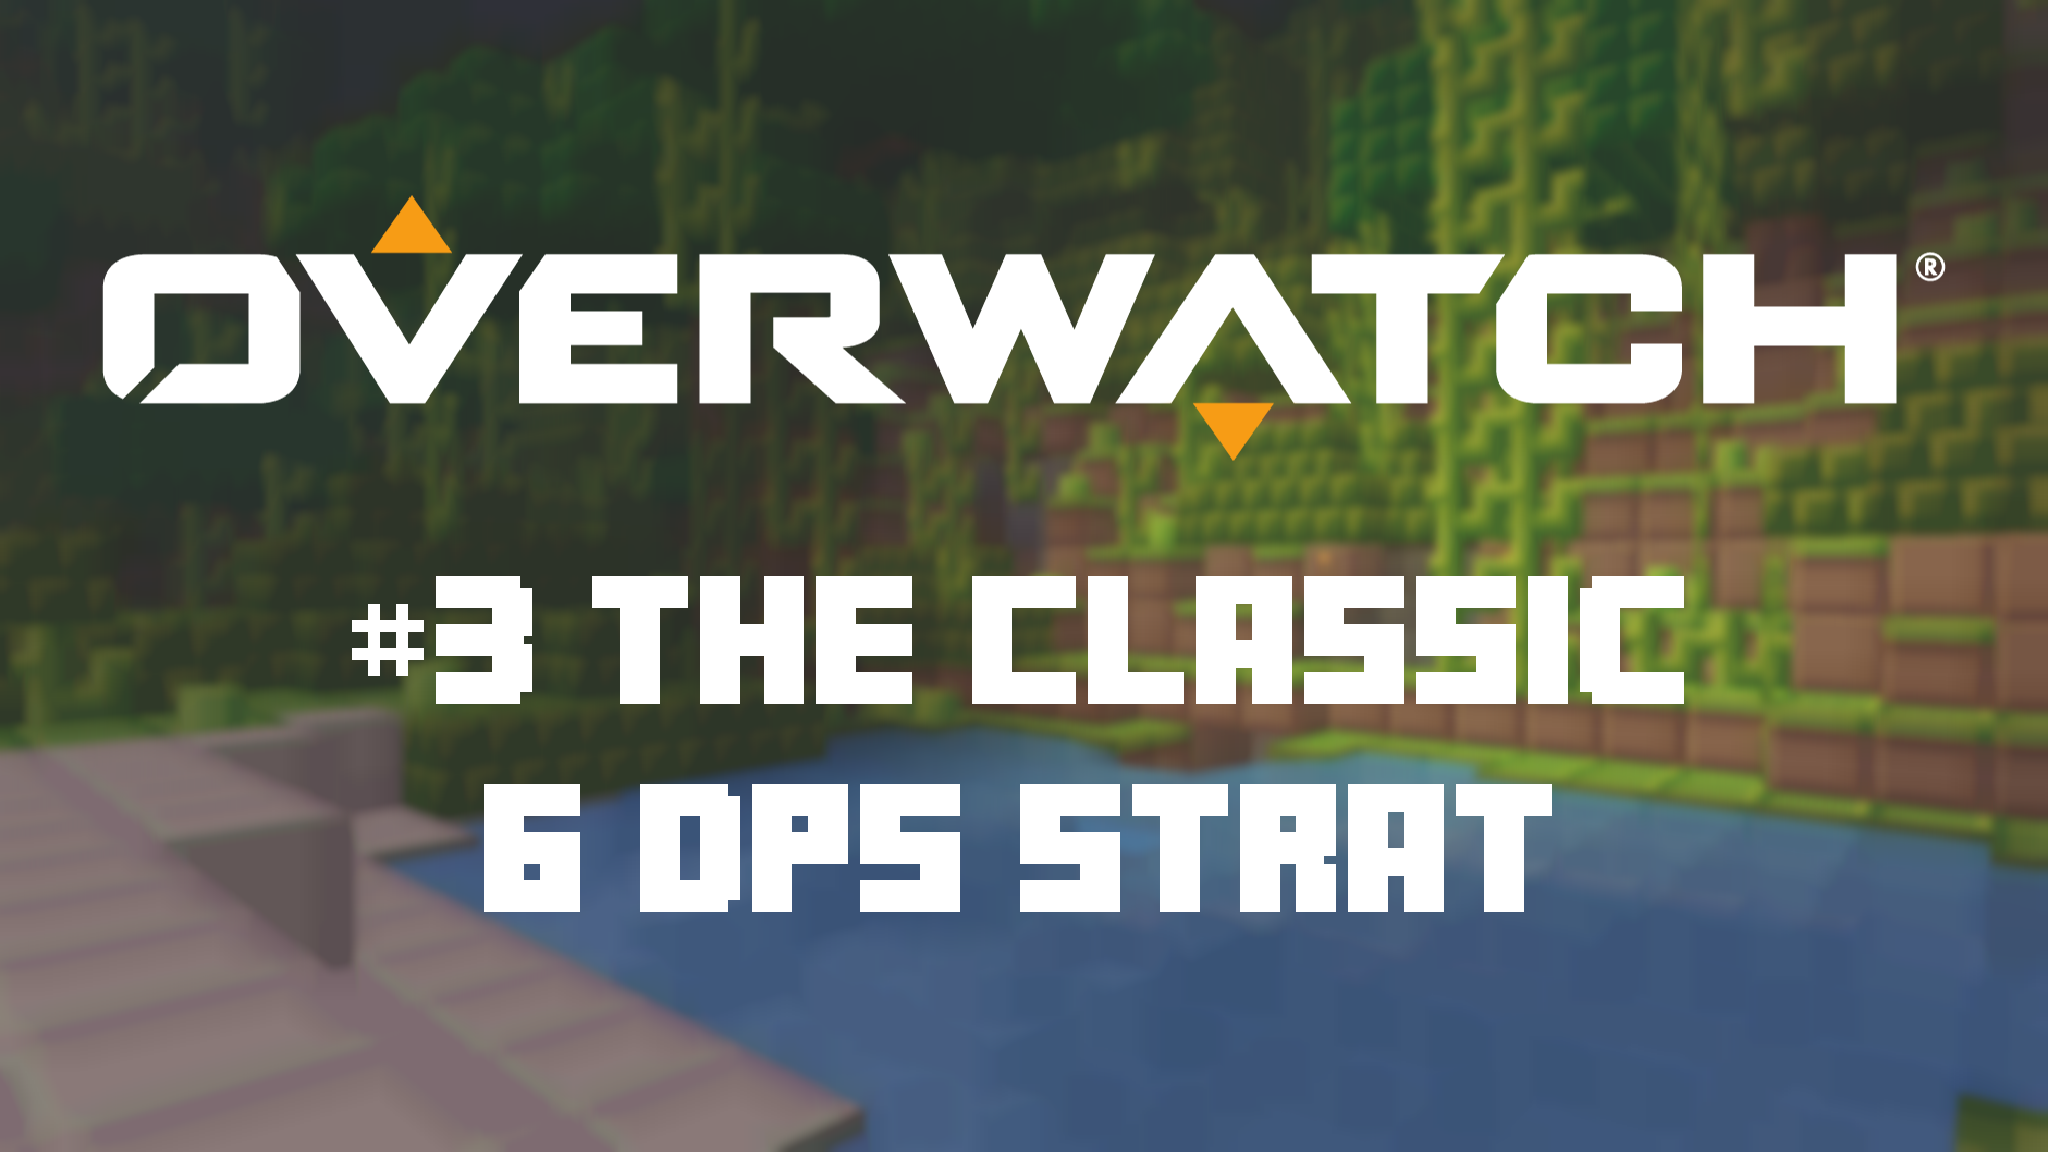
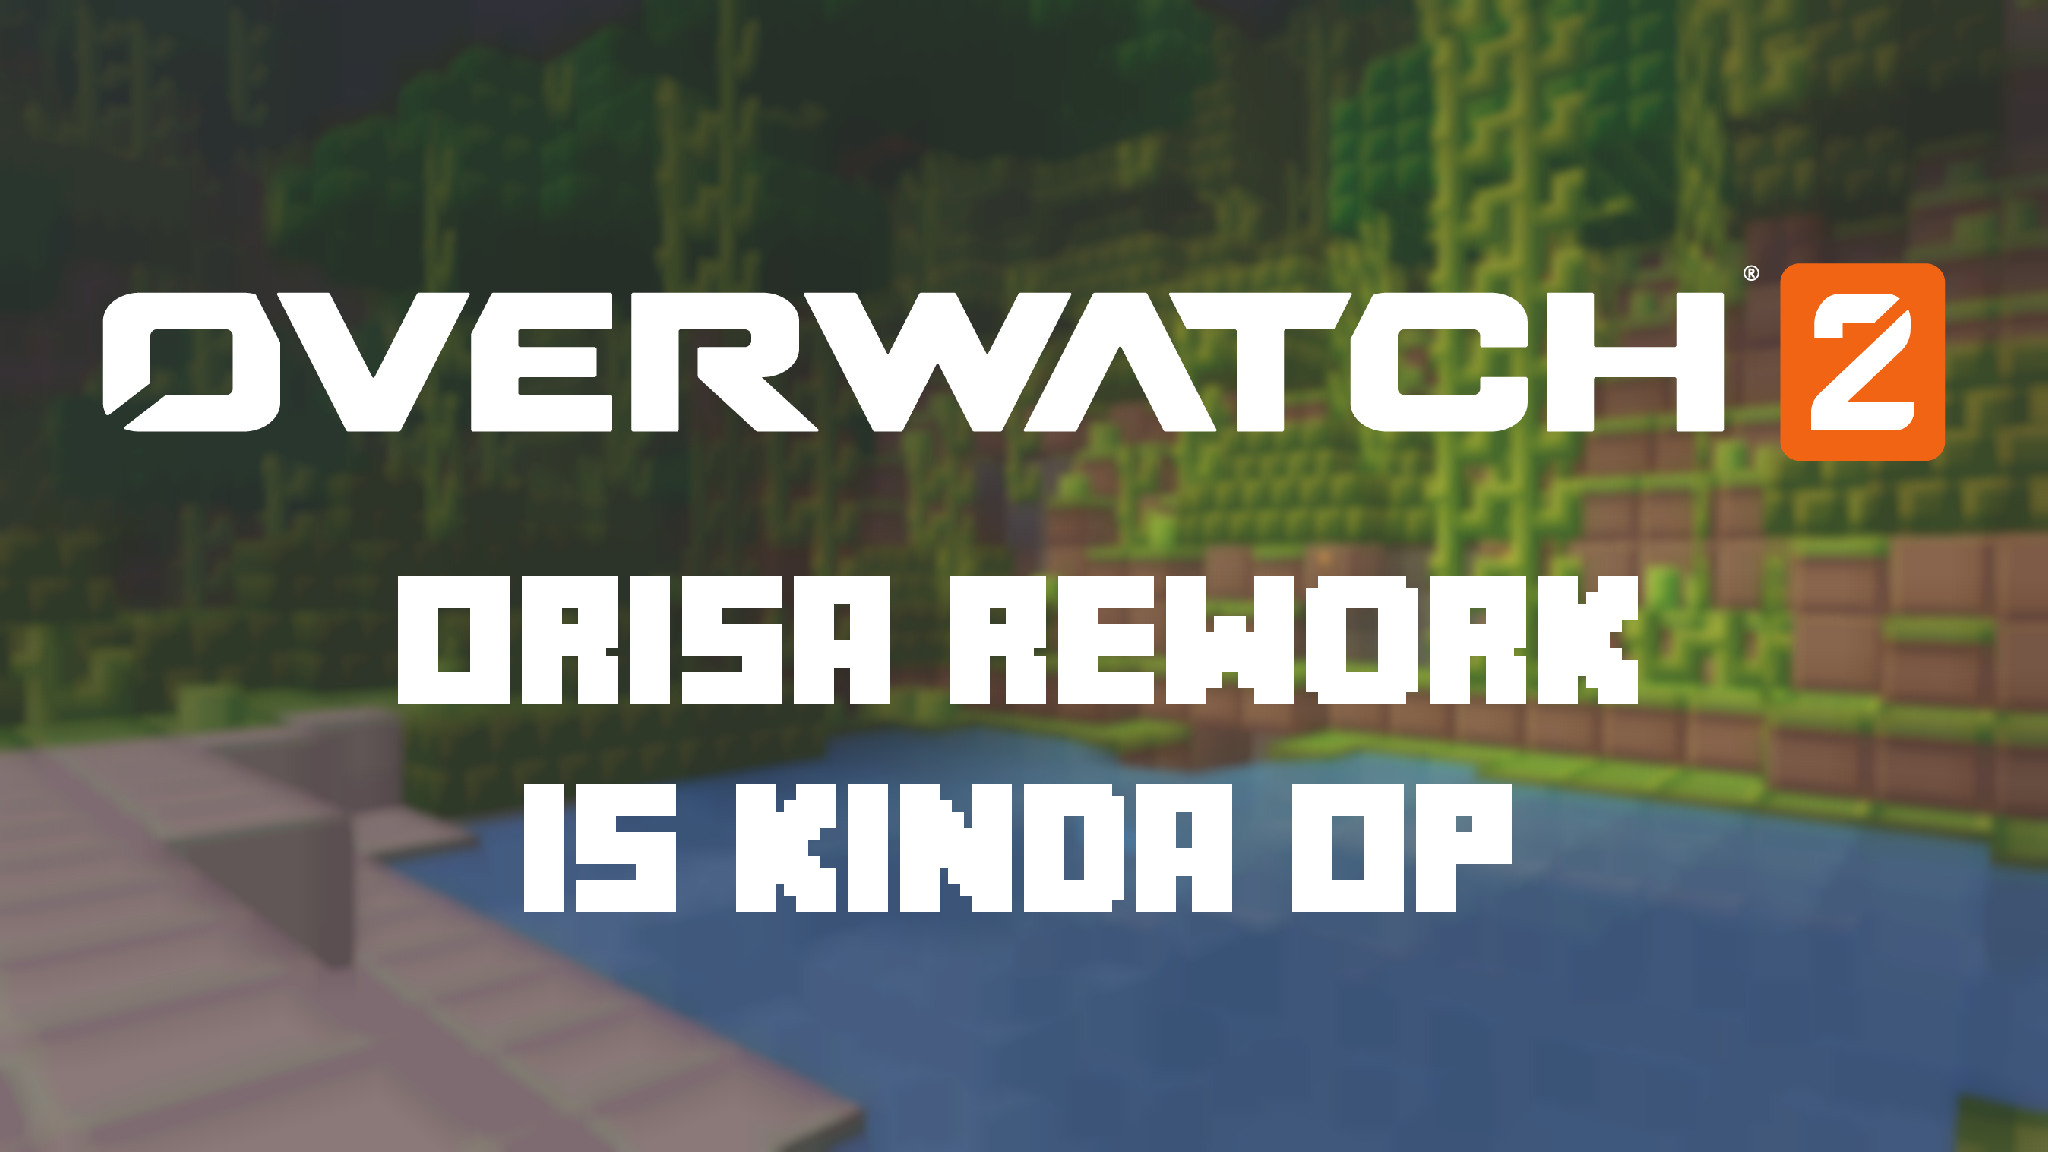
Upgraded to .NET 6 and added OW2 support
Also added sample usage to the README

diff --git a/Program.cs b/Program.cs
@@ -13,7 +13,7 @@ namespace ThumbnailCreator
             try
             {
                 CreateThumbnail(args);
-                Console.WriteLine("Thumbnail generated succesfully");
+                Console.WriteLine("Thumbnail generated successfully");
             }
             catch (Exception ex)
             {
@@ -121,7 +121,9 @@ namespace ThumbnailCreator
                     int episode = int.Parse(configEpisode);
                     if (!config.Required("the video's title", out string title, "video", "title"))
                         return;
-                    string content = $"#{episode} {title}";
+                    if (!config.Required("if the episode number should appear in the thumbnail", out string configIncludeEpisodeNumber, "text", "include.episode.number"))
+                        return;
+                    string content = bool.Parse(configIncludeEpisodeNumber) ? $"#{episode} {title}" : title;
 
                     // Draw some text at the center
                     using (var minecrafter3 = Helpers.LoadFont(fontFile.ToOS()))

diff --git a/README.md b/README.md
@@ -2,6 +2,24 @@
 
 This is a utility I'm creating/using for the thumbnails of my YouTube videos. It's nothing much, but makes it easier on me.
 
+## Usage:
+
+```bash
+dotnet run -- <config name/file>
+```
+
+### Examples
+
+Relative path to the config file
+```bash
+dotnet run -- "./res/Config/Overwatch.config"
+```
+
+Name of included config
+```bash
+dotnet run -- "Overwatch 2"
+```
+
 ## Dependencies:
 
 This project uses [SkiaSharp](https://github.com/mono/SkiaSharp) for the graphics
@@ -12,6 +30,7 @@ This project uses [SkiaSharp](https://github.com/mono/SkiaSharp) for the graphic
 - Title font: Minecrafter_3 from [Textcraft.net](https://textcraft.net/download-fonts.php)
   - With special credit to: "Asherz08", "MadPixel", "Ashley Denham" (from License.txt)
 - Overwatch logo: OW Logo White (cropped) from [Blizzard Press Center](https://blizzard.gamespress.com/Overwatch#?tab=logos)
+- Overwatch 2 logo: Overwatch2 Secondary DKBKGD (cropped) from [Blizzard Press Center](https://blizzard.gamespress.com/overwatch-2#?tab=logos-3)
 
 ## Additional:
 
